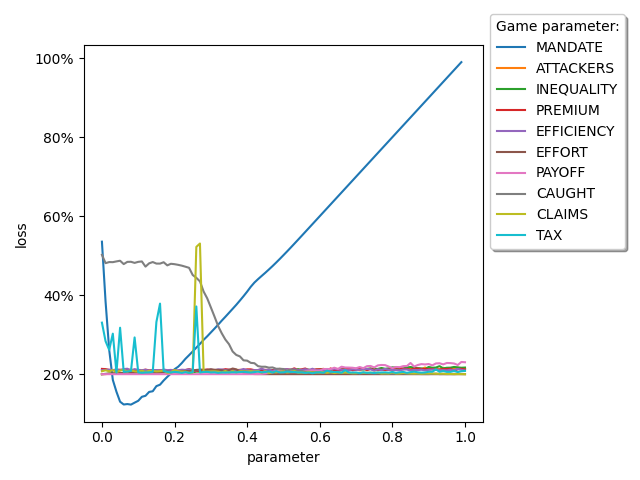
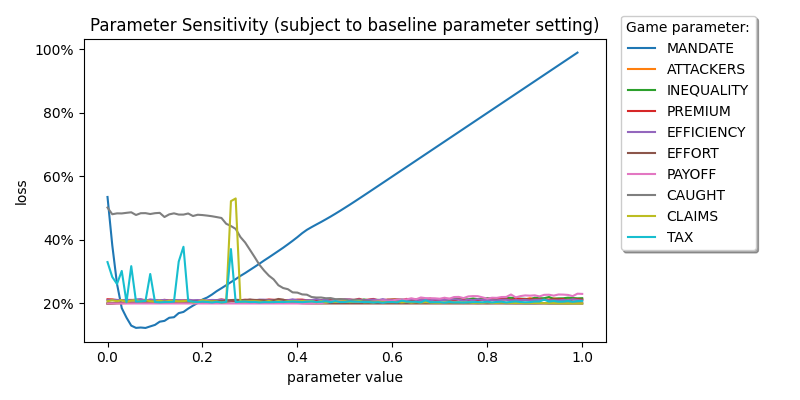
formatting

diff --git a/cpp-games/scripts/one_way_sensitivity.py b/cpp-games/scripts/one_way_sensitivity.py
@@ -2,7 +2,7 @@
 import pandas as pd
 import matplotlib.pyplot as plt
 import matplotlib.ticker as mtick
-
+# from matplotlib.pyplot import figure
 
 params = ['MANDATE','ATTACKERS','INEQUALITY','PREMIUM','EFFICIENCY','EFFORT','PAYOFF','CAUGHT','CLAIMS','TAX']
 
@@ -34,6 +34,11 @@ df = df.groupby(groups, as_index=False).mean()
 
 fig, ax = plt.subplots()
 
+fig.set_figwidth(8)
+fig.set_figheight(4)
+
+
+
 
 for p in params:
     # print(p)
@@ -48,11 +53,13 @@ for p in params:
     ax.plot(xvals_sorted, yvals_sorted, label=p)
 
 
-plt.xlabel('parameter')
+plt.xlabel('parameter value')
 plt.ylabel('loss')
 ax.yaxis.set_major_formatter(mtick.PercentFormatter(1.0))
 
 plt.legend(loc='best',title="Game parameter:", bbox_to_anchor=(1.0, 0.6, 0.3, 0.5), fancybox=True, shadow=True, ncol=1)
+# plt.legend(fancybox=True, shadow=True)
+plt.title("Parameter Sensitivity (subject to baseline parameter setting)")
 plt.tight_layout()
 plt.savefig("figures/ows.png")
 plt.savefig("figures/ows.pdf")
